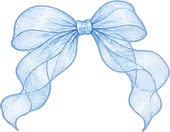
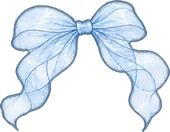
オーガンジーリボン：結び目を瓶のまん中に（pc）。外がわのふちを少し濃く
Claude-Session: https://claude.ai/code/session_01LsuWBkhUDp3d2Zrt24Lv8i

diff --git a/js/series.js b/js/series.js
@@ -201,15 +201,15 @@ const SERIES_LIST = [
     color: "#c9b8ef",
     pickups: [],
     charms: [
-      { id: "og0", name: "ラベンダーのオーガンジーリボン", file: "g0.webp", w: 170, h: 120, place: "neck", big: 88, pa: 0.12, kind: "ribbon" },
-      { id: "og1", name: "さくらのオーガンジーリボン", file: "g1.webp", w: 170, h: 133, place: "neck", big: 88, pa: 0.12, kind: "ribbon" },
-      { id: "og2", name: "そらいろのオーガンジーリボン", file: "g2.webp", w: 170, h: 124, place: "neck", big: 88, pa: 0.12, kind: "ribbon" },
-      { id: "og3", name: "シャンパンのオーガンジーリボン", file: "g3.webp", w: 170, h: 128, place: "neck", big: 88, pa: 0.12, kind: "ribbon" },
-      { id: "og4", name: "ミントのオーガンジーリボン", file: "g4.webp", w: 170, h: 131, place: "neck", big: 88, pa: 0.12, kind: "ribbon" },
-      { id: "og5", name: "すみれのオーガンジーリボン", file: "g5.webp", w: 170, h: 159, place: "neck", big: 88, pa: 0.12, kind: "ribbon" },
-      { id: "og6", name: "ブルーのオーガンジーリボン", file: "g6.webp", w: 170, h: 132, place: "neck", big: 88, pa: 0.12, kind: "ribbon" },
-      { id: "og7", name: "コーラルのオーガンジーリボン", file: "g7.webp", w: 170, h: 131, place: "neck", big: 88, pa: 0.12, kind: "ribbon" },
-      { id: "og8", name: "はちみつのオーガンジーリボン", file: "g8.webp", w: 170, h: 135, place: "neck", big: 88, pa: 0.12, kind: "ribbon" },
+      { id: "og0", name: "ラベンダーのオーガンジーリボン", file: "g0.webp", w: 170, h: 120, place: "neck", big: 88, pa: 0.12, pc: 0.525, kind: "ribbon" },
+      { id: "og1", name: "さくらのオーガンジーリボン", file: "g1.webp", w: 170, h: 133, place: "neck", big: 88, pa: 0.12, pc: 0.495, kind: "ribbon" },
+      { id: "og2", name: "そらいろのオーガンジーリボン", file: "g2.webp", w: 170, h: 124, place: "neck", big: 88, pa: 0.12, pc: 0.445, kind: "ribbon" },
+      { id: "og3", name: "シャンパンのオーガンジーリボン", file: "g3.webp", w: 170, h: 128, place: "neck", big: 88, pa: 0.12, pc: 0.465, kind: "ribbon" },
+      { id: "og4", name: "ミントのオーガンジーリボン", file: "g4.webp", w: 170, h: 131, place: "neck", big: 88, pa: 0.12, pc: 0.45, kind: "ribbon" },
+      { id: "og5", name: "すみれのオーガンジーリボン", file: "g5.webp", w: 170, h: 159, place: "neck", big: 88, pa: 0.12, pc: 0.42, kind: "ribbon" },
+      { id: "og6", name: "ブルーのオーガンジーリボン", file: "g6.webp", w: 170, h: 132, place: "neck", big: 88, pa: 0.12, pc: 0.495, kind: "ribbon" },
+      { id: "og7", name: "コーラルのオーガンジーリボン", file: "g7.webp", w: 170, h: 131, place: "neck", big: 88, pa: 0.12, pc: 0.425, kind: "ribbon" },
+      { id: "og8", name: "はちみつのオーガンジーリボン", file: "g8.webp", w: 170, h: 135, place: "neck", big: 88, pa: 0.12, pc: 0.45, kind: "ribbon" },
     ],
   },
   {

diff --git a/js/app.js b/js/app.js
@@ -23,7 +23,7 @@ const KCAL_PER_FAT_G = 7.2;  // 体脂肪1gあたりのカロリー
 // 保存名はすべて「n-app-」で始める（同じサイト上のほかのアプリとまざらないように）
 const STORAGE_KEY = "n-app-data";
 const LEGACY_STORAGE_KEY = "n-undou-bin.v1"; // 前の保存名（自動で引っ越す）
-const APP_VERSION = "11/30-57"; // 更新するたびに変える（設定画面に表示）
+const APP_VERSION = "11/30-58"; // 更新するたびに変える（設定画面に表示）
 
 // ---------- データの読み書き ----------
 

diff --git a/sw.js b/sw.js
@@ -9,8 +9,8 @@
 // ★ プログラムを直したら CODE_VERSION を、今ある画像を描き直したら IMAGE_VERSION を、必ず1つ上げる。
 //   （新しい画像を足しただけなら IMAGE_VERSION はそのまま。足した分だけダウンロードされる）
 importScripts("js/bottles.js", "js/bigbottles.js", "js/series.js");
-const CODE_VERSION = 160;
-const IMAGE_VERSION = 10;
+const CODE_VERSION = 161;
+const IMAGE_VERSION = 11;
 const CODE_CACHE = `n-app-cache-v${CODE_VERSION}`;
 const IMAGE_CACHE = `n-app-images-v${IMAGE_VERSION}`;
 
